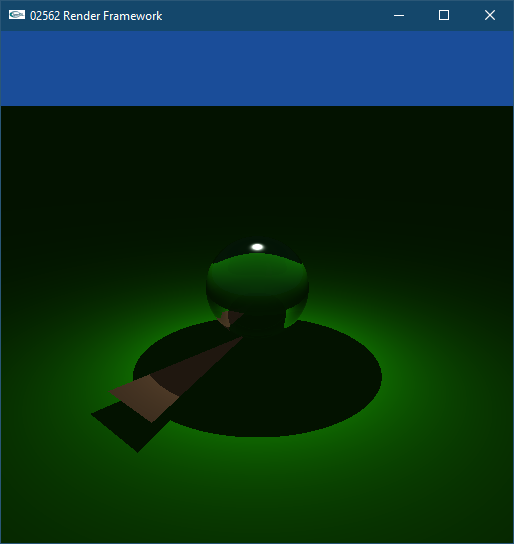
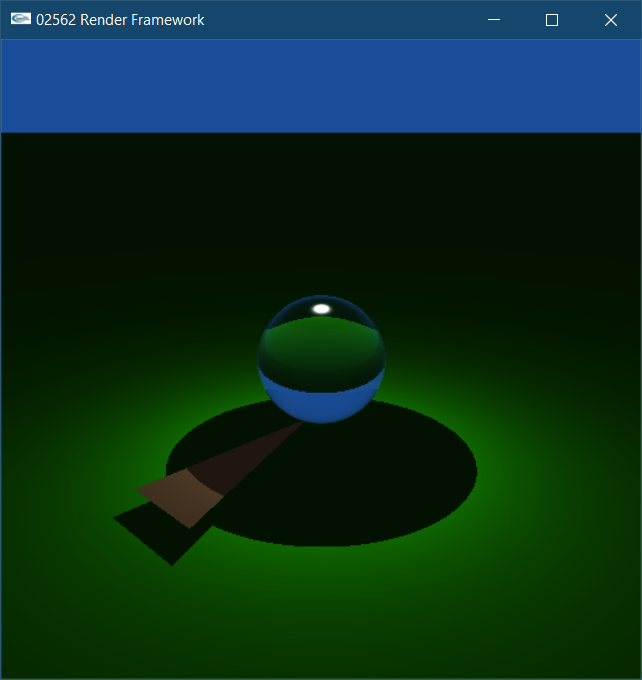
finished WS8

diff --git a/raytrace/GlossyVolume.cpp b/raytrace/GlossyVolume.cpp
@@ -18,6 +18,60 @@ float3 GlossyVolume::shade(const Ray& r, HitInfo& hit, bool emit) const
   // Compute the specular part of the glossy shader and attenuate it
   // by the transmittance of the material if the ray is inside (as in
   // the volume shader).
+	if (hit.trace_depth >= max_depth)
+		return make_float3(0.0f);
 
-  return Volume::shade(r, hit, emit);
+	float R;
+	Ray reflected, refracted;
+	HitInfo hit_reflected, hit_refracted;
+	tracer->trace_reflected(r, hit, reflected, hit_reflected);
+	tracer->trace_refracted(r, hit, refracted, hit_refracted, R);
+	float3 result = R * (shadePhong(r, hit, emit) + shade_new_ray(reflected, hit_reflected)) + (1.0f - R) * shade_new_ray(refracted, hit_refracted);
+	
+	if (dot(hit.shading_normal, r.direction) > 0) {
+		result *= get_transmittance(hit);
+	}
+	
+	return result;
+}
+
+float3 GlossyVolume::shadePhong(const Ray& r, HitInfo& hit, bool emit) const
+{
+	float3 rho_s = get_specular(hit);
+	float s = get_shininess(hit);
+
+	// Implement Phong reflection here.
+	//
+	// Input:  r          (the ray that hit the material)
+	//         hit        (info about the ray-surface intersection)
+	//         emit       (passed on to Emission::shade)
+	//
+	// Return: radiance reflected to where the ray was coming from
+	//
+	// Relevant data fields that are available (see Lambertian.h, Ray.h, and above):
+	// lights             (vector of pointers to the lights in the scene)
+	// hit.position       (position where the ray hit the material)
+	// hit.shading_normal (surface normal where the ray hit the material)
+	// rho_d              (difuse reflectance of the material)
+	// rho_s              (specular reflectance of the material)
+	// s                  (shininess or Phong exponent of the material)
+	//
+	// Hint: Call the sample function associated with each light in the scene.
+	float3 result = make_float3(0);
+	for (Light* light : lights) {
+		float3 Lr = make_float3(0.0f);
+		float num_samples = light->get_no_of_samples();
+		for (int i = 0; i < num_samples; i++) {
+			float3 light_dir, L;
+			if (!light->sample(hit.position, light_dir, L)) continue;
+
+			float3 n = hit.shading_normal;
+			float3 wi = light_dir;
+			float3 wr = optix::reflect(-wi, n);//2 * dot(wi, n) * n - wi;
+			float3 wo = -normalize(r.direction);
+			Lr += (rho_s * (s + 2) * (0.5f * M_1_PIf) * pow(fmax(0, dot(wo, wr)), s)) * L * fmax(0, dot(wi, n));
+		}
+		result += (Lr / num_samples);
+	}
+	return result + Emission::shade(r, hit, emit);
 }

diff --git a/raytrace/ParticleTracer.cpp b/raytrace/ParticleTracer.cpp
@@ -119,6 +119,9 @@ void ParticleTracer::trace_particle(const Light* light, const unsigned int caust
     case 12: // absorbing glossy volume
       {
         // Handle absorption here (Worksheet 8)
+		if (dot(hit.shading_normal, r.direction) > 0) {
+			phi *= get_transmittance(hit);
+		}
       }
     case 2:  // glossy materials
     case 4:  // transparent materials
@@ -158,13 +161,22 @@ float3 ParticleTracer::get_diffuse(const HitInfo& hit) const
 
 float3 ParticleTracer::get_transmittance(const HitInfo& hit) const
 {
-  if(hit.material)
-  {
-    // Compute and return the transmittance using the diffuse reflectance of the material.
-    // Diffuse reflectance rho_d does not make sense for a specular material, so we can use 
-    // this material property as an absorption coefficient. Since absorption has an effect
-    // opposite that of reflection, using 1/rho_d-1 makes it more intuitive for the user.
-    float3 rho_d = make_float3(hit.material->diffuse[0], hit.material->diffuse[1], hit.material->diffuse[2]);
-  }
-  return make_float3(1.0f);
+
+
+	if (hit.material)
+	{
+		// Compute and return the transmittance using the diffuse reflectance of the material.
+		// Diffuse reflectance rho_d does not make sense for a specular material, so we can use 
+		// this material property as an absorption coefficient. Since absorption has an effect
+		// opposite that of reflection, using 1/rho_d-1 makes it more intuitive for the user.
+		float3 rho_d = make_float3(hit.material->diffuse[0], hit.material->diffuse[1], hit.material->diffuse[2]);
+		float3 result = make_float3(
+			(rho_d.x != 0) ? exp((-1 / rho_d.x - 1) * hit.dist) : 0.0f,
+			(rho_d.y != 0) ? exp((-1 / rho_d.y - 1) * hit.dist) : 0.0f,
+			(rho_d.z != 0) ? exp((-1 / rho_d.z - 1) * hit.dist) : 0.0f
+		);
+
+		return result;
+	}
+	return make_float3(1.0f);
 }

diff --git a/raytrace/RayTracer.cpp b/raytrace/RayTracer.cpp
@@ -61,6 +61,7 @@ bool RayTracer::trace_refracted(const Ray& in, const HitInfo& in_hit, Ray& out, 
 		out_hit.trace_depth = in_hit.trace_depth + 1;
 		return trace_to_closest(out, out_hit);
     }else{
+		out = Ray(in_hit.position, refDir, 0, 0.0001, RT_DEFAULT_MAX);
         return false;
     }
 	
@@ -82,17 +83,16 @@ bool RayTracer::trace_refracted(const Ray& in, const HitInfo& in_hit, Ray& out, 
   // Hints: (a) There is a refract function available in the OptiX math library.
   //        (b) Set out_hit.ray_ior and out_hit.trace_depth.
   //        (c) Remember that the function must handle total internal reflection.
-  
-    if(trace_refracted(in, in_hit, out, out_hit)) { //will this lead to problems?
-        float cosOi = dot(in_hit.shading_normal, in.direction);
-        float cosOt = dot(in_hit.shading_normal, out.direction);
+	if(trace_refracted(in, in_hit, out, out_hit) || !(out.direction.x == 0 && out.direction.y == 0 && out.direction.z == 0)) { //will this lead to problems?
+        float cosOi = dot(normalize(in_hit.shading_normal), normalize(in.direction));
+        float cosOt = dot(normalize(in_hit.shading_normal), normalize(out.direction));
         float ni = in_hit.ray_ior;
         float nt = out_hit.ray_ior;
         float rperp = (ni * cosOi - nt * cosOt) / (ni * cosOi + nt * cosOt);
         float rpara = (nt * cosOi - ni * cosOt) / (nt * cosOi + ni * cosOt);
-        R = 0.5f * (pow(fmax(-rperp,rperp), 2) + pow(fmax(-rpara,rpara), 2));
+        R = 0.5f * (pow(abs(rperp), 2) + pow(abs(rpara), 2));
     }else { //total internal reflection 
-        R = 0.10f;
+        R = 1.0f;
         return false;
     }
 }

diff --git a/raytrace/GlossyVolume.h b/raytrace/GlossyVolume.h
@@ -21,6 +21,7 @@ public:
   { }
 
   virtual optix::float3 shade(const optix::Ray& r, HitInfo& hit, bool emit = true) const;
+  virtual optix::float3 shadePhong(const optix::Ray& r, HitInfo& hit, bool emit = true) const;
 };
 
 #endif // GLOSSYVOLUME_H
